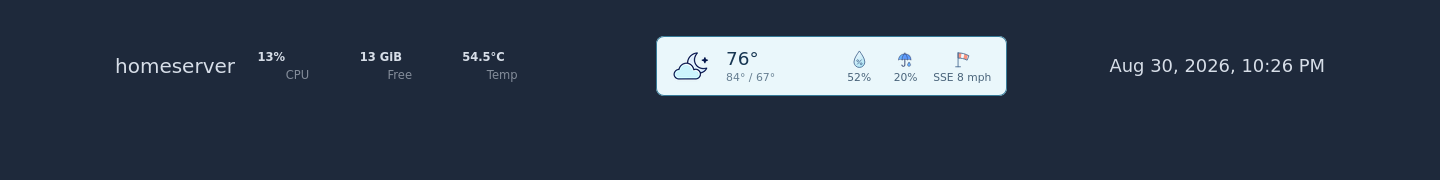
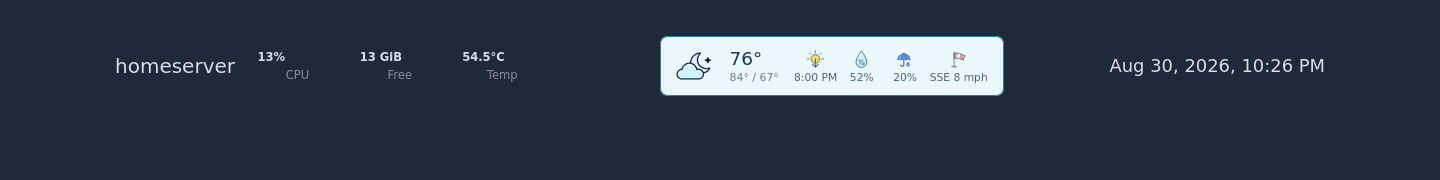
Add next sunrise or sunset to weather widget

diff --git a/nws-weather.js b/nws-weather.js
@@ -2,7 +2,7 @@
   "use strict";
 
   const NAMESPACE = "homepage-nws-weather";
-  const VERSION = "0.1.3";
+  const VERSION = "0.1.4";
 
   if (window.__homepageNwsWeather) {
     return;
@@ -33,6 +33,21 @@
     return Number.isFinite(number) ? Math.max(number, minimum) : fallback;
   }
 
+  function validTimeZone(value) {
+    if (!value) {
+      return null;
+    }
+
+    try {
+      new Intl.DateTimeFormat("en-US", { timeZone: value }).format();
+      return value;
+    } catch {
+      return null;
+    }
+  }
+
+  const configuredTimeZone = validTimeZone(userConfig.timeZone);
+
   const locationKey = hasCoordinates ? `${latitude.toFixed(4)},${longitude.toFixed(4)}` : "custom";
   const units = userConfig.units === "si" ? "si" : "us";
   const CONFIG = {
@@ -46,6 +61,7 @@
     spriteUrl: userConfig.spriteUrl || new URL(`weather-icons.png?v=${VERSION}`, scriptUrl).href,
     forecastUrl: userConfig.forecastUrl || null,
     hourlyUrl: userConfig.hourlyUrl || null,
+    timeZone: configuredTimeZone || validTimeZone(Intl.DateTimeFormat().resolvedOptions().timeZone) || "UTC",
     detailsUrl:
       userConfig.detailsUrl ||
       (hasCoordinates
@@ -66,7 +82,9 @@
   const state = {
     data: null,
     locationLabel: CONFIG.locationLabel,
+    timeZone: CONFIG.timeZone,
     refreshTimer: null,
+    solarTimer: null,
   };
 
   function addStyles() {
@@ -171,7 +189,7 @@
       }
 
       .homepage-nws-weather__summary {
-        min-width: 6.5rem;
+        min-width: 3.375rem;
       }
 
       .homepage-nws-weather__temperature {
@@ -195,7 +213,7 @@
       .homepage-nws-weather__metrics {
         align-items: start;
         display: flex;
-        gap: 0.55rem;
+        gap: 0.36rem;
       }
 
       .homepage-nws-weather__metric {
@@ -220,6 +238,11 @@
         overflow: visible;
       }
 
+      .homepage-nws-weather__solar-icon[data-event="sunrise"] [data-event="sunset"],
+      .homepage-nws-weather__solar-icon[data-event="sunset"] [data-event="sunrise"] {
+        display: none;
+      }
+
       @media (max-width: 767px) {
         #${NAMESPACE} {
           margin: 0.5rem auto 0.2rem;
@@ -227,11 +250,11 @@
         }
 
         .homepage-nws-weather__summary {
-          min-width: 6rem;
+          min-width: 3.375rem;
         }
 
         .homepage-nws-weather__metrics {
-          gap: 0.35rem;
+          gap: 0.2rem;
         }
       }
     `;
@@ -264,6 +287,17 @@
         </span>
       </span>
       <span class="homepage-nws-weather__metrics">
+        <span class="homepage-nws-weather__metric" data-role="solar-wrap">
+          <svg class="homepage-nws-weather__metric-icon homepage-nws-weather__metric-svg homepage-nws-weather__solar-icon" data-role="solar-icon" data-event="sunrise" viewBox="0 0 48 48" aria-hidden="true">
+            <g fill="none" stroke="#163d70" stroke-linecap="round" stroke-linejoin="round" stroke-width="2">
+              <path d="M24 4v4M10.5 9.5l3 3M37.5 9.5l-3 3M5 23h4M39 23h4"></path>
+              <circle cx="24" cy="23" r="10" fill="#ffd42a"></circle>
+              <path data-event="sunrise" d="M24 42V23M17.5 29.5 24 23l6.5 6.5" stroke-width="2.6"></path>
+              <path data-event="sunset" d="M24 23v19M17.5 35.5 24 42l6.5-6.5" stroke-width="2.6"></path>
+            </g>
+          </svg>
+          <span data-role="solar-time">--</span>
+        </span>
         <span class="homepage-nws-weather__metric" data-role="humidity-wrap">
           <svg class="homepage-nws-weather__metric-icon homepage-nws-weather__metric-svg" viewBox="0 0 48 48" aria-hidden="true">
             <defs>
@@ -372,6 +406,98 @@
     return period.isDaytime ? "clear-day" : "clear-night";
   }
 
+  function datePartsInTimeZone(date, timeZone) {
+    const parts = new Intl.DateTimeFormat("en-US", {
+      timeZone,
+      year: "numeric",
+      month: "numeric",
+      day: "numeric",
+    }).formatToParts(date);
+    const values = Object.fromEntries(parts.map((part) => [part.type, Number(part.value)]));
+
+    return {
+      year: values.year,
+      month: values.month,
+      day: values.day,
+    };
+  }
+
+  function solarEventsForDate(year, month, day) {
+    const dayOfYear = Math.floor((Date.UTC(year, month - 1, day) - Date.UTC(year, 0, 0)) / 86400000);
+    const fractionalYear = (2 * Math.PI * (dayOfYear - 1)) / 365;
+    const equationOfTime =
+      229.18 *
+      (0.000075 +
+        0.001868 * Math.cos(fractionalYear) -
+        0.032077 * Math.sin(fractionalYear) -
+        0.014615 * Math.cos(2 * fractionalYear) -
+        0.040849 * Math.sin(2 * fractionalYear));
+    const declination =
+      0.006918 -
+      0.399912 * Math.cos(fractionalYear) +
+      0.070257 * Math.sin(fractionalYear) -
+      0.006758 * Math.cos(2 * fractionalYear) +
+      0.000907 * Math.sin(2 * fractionalYear) -
+      0.002697 * Math.cos(3 * fractionalYear) +
+      0.00148 * Math.sin(3 * fractionalYear);
+    const latitudeRadians = (latitude * Math.PI) / 180;
+    const zenithRadians = (90.833 * Math.PI) / 180;
+    const hourAngleCosine =
+      Math.cos(zenithRadians) / (Math.cos(latitudeRadians) * Math.cos(declination)) -
+      Math.tan(latitudeRadians) * Math.tan(declination);
+
+    if (hourAngleCosine < -1 || hourAngleCosine > 1) {
+      return { sunrise: null, sunset: null };
+    }
+
+    const hourAngle = (Math.acos(hourAngleCosine) * 180) / Math.PI;
+    const midnightUtc = Date.UTC(year, month - 1, day);
+    const atUtcMinutes = (minutes) => new Date(midnightUtc + minutes * 60000);
+
+    return {
+      sunrise: atUtcMinutes(720 - 4 * (longitude + hourAngle) - equationOfTime),
+      sunset: atUtcMinutes(720 - 4 * (longitude - hourAngle) - equationOfTime),
+    };
+  }
+
+  function nextSolarEvent(now = new Date()) {
+    if (!hasCoordinates) {
+      return null;
+    }
+
+    const localDate = datePartsInTimeZone(now, state.timeZone);
+    const firstDate = Date.UTC(localDate.year, localDate.month - 1, localDate.day);
+    const format = new Intl.DateTimeFormat([], {
+      timeZone: state.timeZone,
+      hour: "numeric",
+      minute: "2-digit",
+    });
+
+    for (let offset = 0; offset <= 370; offset += 1) {
+      const candidateDate = new Date(firstDate + offset * 86400000);
+      const events = solarEventsForDate(
+        candidateDate.getUTCFullYear(),
+        candidateDate.getUTCMonth() + 1,
+        candidateDate.getUTCDate(),
+      );
+      const next = [
+        events.sunrise && { type: "sunrise", date: events.sunrise },
+        events.sunset && { type: "sunset", date: events.sunset },
+      ]
+        .filter((event) => event && event.date > now)
+        .sort((a, b) => a.date - b.date)[0];
+
+      if (next) {
+        return {
+          ...next,
+          time: format.format(next.date),
+        };
+      }
+    }
+
+    return null;
+  }
+
   function normalize(forecast, hourly) {
     const forecastPeriods = forecast?.properties?.periods || [];
     const hourlyPeriod = hourly?.properties?.periods?.[0] || forecastPeriods[0];
@@ -420,12 +546,15 @@
       return;
     }
 
+    const solarEvent = data.solarEvent || nextSolarEvent();
+
     setText("temperature", `${data.temperature}°`);
     setText("high", `${data.high}°`);
     setText("low", `${data.low}°`);
     setText("humidity", data.humidity === null ? "--" : `${data.humidity}%`);
     setText("precipitation", data.precipitation === null ? "--" : `${data.precipitation}%`);
     setText("wind", data.wind);
+    setText("solar-time", solarEvent?.time || "--");
 
     const icon = role("condition-icon");
 
@@ -433,12 +562,24 @@
       icon.dataset.icon = data.icon;
     }
 
+    const solarIcon = role("solar-icon");
+    const solarWrap = role("solar-wrap");
+
+    if (solarIcon && solarEvent) {
+      solarIcon.dataset.event = solarEvent.type;
+    }
+
+    if (solarWrap) {
+      solarWrap.hidden = !solarEvent;
+    }
+
     const unitName = data.temperatureUnit === "C" ? "Celsius" : "Fahrenheit";
     const updated = new Date(data.updatedAt).toLocaleTimeString([], {
       hour: "numeric",
       minute: "2-digit",
     });
-    const summary = `${state.locationLabel} weather: ${data.condition}. Current temperature ${data.temperature} degrees ${unitName}. High ${data.high} degrees ${unitName}, low ${data.low} degrees ${unitName}. Humidity ${data.humidity ?? "unavailable"} percent. Precipitation ${data.precipitation ?? "unavailable"} percent. Wind ${data.wind}.`;
+    const solarSummary = solarEvent ? ` Next ${solarEvent.type} at ${solarEvent.time}.` : "";
+    const summary = `${state.locationLabel} weather: ${data.condition}. Current temperature ${data.temperature} degrees ${unitName}. High ${data.high} degrees ${unitName}, low ${data.low} degrees ${unitName}. Humidity ${data.humidity ?? "unavailable"} percent. Precipitation ${data.precipitation ?? "unavailable"} percent. Wind ${data.wind}.${solarSummary}`;
     const title = [
       data.detailedForecast,
       `${stale ? "Cached NWS forecast from" : "NWS forecast updated"} ${updated}`,
@@ -452,6 +593,14 @@
     role("humidity-wrap")?.setAttribute("title", `Humidity ${data.humidity ?? "unavailable"}%`);
     role("precipitation-wrap")?.setAttribute("title", `Precipitation ${data.precipitation ?? "unavailable"}%`);
     role("wind-wrap")?.setAttribute("title", `Wind ${data.wind}`);
+    solarWrap?.setAttribute("title", solarEvent ? `Next ${solarEvent.type} ${solarEvent.time}` : "");
+
+    window.clearTimeout(state.solarTimer);
+
+    if (solarEvent?.date) {
+      const delay = Math.min(Math.max(solarEvent.date - Date.now() + 1000, 1000), 2147483647);
+      state.solarTimer = window.setTimeout(() => render(data, stale), delay);
+    }
   }
 
   function readStorage(key) {
@@ -537,8 +686,14 @@
 
     const cached = readStorage(CONFIG.endpointCacheKey);
 
-    if (cached?.forecast && cached?.hourly && Date.now() - cached.updatedAt <= CONFIG.endpointCacheMs) {
+    if (
+      cached?.forecast &&
+      cached?.hourly &&
+      (configuredTimeZone || validTimeZone(cached.timeZone)) &&
+      Date.now() - cached.updatedAt <= CONFIG.endpointCacheMs
+    ) {
       state.locationLabel = userConfig.locationLabel || cached.locationLabel || state.locationLabel;
+      state.timeZone = configuredTimeZone || validTimeZone(cached.timeZone) || state.timeZone;
       return cached;
     }
 
@@ -548,6 +703,7 @@
         forecast: point?.properties?.forecast,
         hourly: point?.properties?.forecastHourly,
         locationLabel: locationFromPoint(point),
+        timeZone: validTimeZone(point?.properties?.timeZone),
         updatedAt: Date.now(),
       };
 
@@ -556,12 +712,14 @@
       }
 
       state.locationLabel = userConfig.locationLabel || endpoints.locationLabel || state.locationLabel;
+      state.timeZone = configuredTimeZone || endpoints.timeZone || state.timeZone;
       writeStorage(CONFIG.endpointCacheKey, endpoints);
       return endpoints;
     } catch (error) {
       if (cached?.forecast && cached?.hourly) {
         console.warn(`[${NAMESPACE}] Point lookup failed; using cached grid metadata.`, error);
         state.locationLabel = userConfig.locationLabel || cached.locationLabel || state.locationLabel;
+        state.timeZone = configuredTimeZone || validTimeZone(cached.timeZone) || state.timeZone;
         return cached;
       }
 

diff --git a/demo/capture.html b/demo/capture.html
@@ -80,6 +80,7 @@
         latitude: 39.7456,
         longitude: -97.0892,
         locationLabel: "Demo",
+        timeZone: "America/Chicago",
         forecastUrl: "./missing-forecast.json",
         hourlyUrl: "./missing-hourly.json",
         detailsUrl: "https://www.weather.gov/",
@@ -88,7 +89,11 @@
 
       localStorage.setItem(
         "homepage-nws-weather:forecast:39.7456,-97.0892:us:v1",
-        JSON.stringify({ ...forecast, updatedAt: Date.now() }),
+        JSON.stringify({
+          ...forecast,
+          solarEvent: { type: "sunset", time: "8:00 PM" },
+          updatedAt: Date.now(),
+        }),
       );
     </script>
     <script src="../nws-weather.js?v=capture"></script>

diff --git a/demo/index.html b/demo/index.html
@@ -114,6 +114,7 @@
         latitude: 39.7456,
         longitude: -97.0892,
         locationLabel: "Demo",
+        timeZone: "America/Chicago",
         forecastUrl: "./forecast.json",
         hourlyUrl: "./hourly.json",
         detailsUrl: "https://www.weather.gov/",
@@ -132,6 +133,7 @@
           humidity: 52,
           precipitation: 20,
           wind: "SSE 8 mph",
+          solarEvent: { type: "sunset", time: "8:00 PM" },
           icon: "partly-night",
           updatedAt: Date.now(),
         }),

diff --git a/examples/custom.js b/examples/custom.js
@@ -12,7 +12,7 @@ window.HOMEPAGE_NWS_WEATHER = {
   }
 
   const script = document.createElement("script");
-  script.src = "/nws-weather.js?v=0.1.3";
+  script.src = "/nws-weather.js?v=0.1.4";
   script.defer = true;
   script.dataset.homepageNwsWeather = "true";
   document.head.appendChild(script);

diff --git a/README.md b/README.md
@@ -9,7 +9,7 @@
 
 A compact [Homepage](https://gethomepage.dev/) header widget backed by the official US National Weather Service API.
 
-It shows the current temperature, the next high/low pair, current forecast conditions, humidity, precipitation probability, and wind. It requires no account or API key and serves its artwork locally.
+It shows the current temperature, the next high/low pair, current forecast conditions, humidity, precipitation probability, wind, and whichever comes next: sunrise or sunset. It requires no account or API key and serves its artwork locally.
 
 ## Features
 
@@ -76,7 +76,7 @@ window.HOMEPAGE_NWS_WEATHER = {
   if (document.querySelector('script[data-homepage-nws-weather]')) return;
 
   const script = document.createElement("script");
-  script.src = "/nws-weather.js?v=0.1.3";
+  script.src = "/nws-weather.js?v=0.1.4";
   script.defer = true;
   script.dataset.homepageNwsWeather = "true";
   document.head.appendChild(script);
@@ -102,6 +102,7 @@ Set `window.HOMEPAGE_NWS_WEATHER` before loading `nws-weather.js`.
 | `latitude` | required | Latitude from `-90` to `90` |
 | `longitude` | required | Longitude from `-180` to `180` |
 | `locationLabel` | NWS city/state | Accessible location label and loading text |
+| `timeZone` | NWS location | IANA time zone used to display sunrise and sunset; normally discovered automatically |
 | `units` | `"us"` | NWS unit system: `"us"` or `"si"` |
 | `position` | `"center"` | Placement inside the target: `"start"`, `"center"`, or `"end"` |
 | `targetSelector` | `"#information-widgets-right"` | Element that receives the widget |
